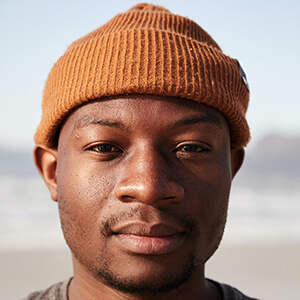
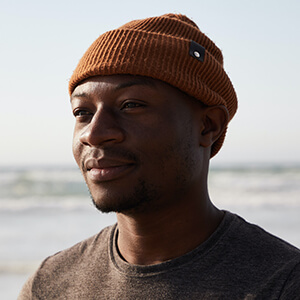
Changed image of instructor philip and updated media credits

diff --git a/README.md b/README.md
@@ -28,7 +28,7 @@ For the structure of the page is designed with a linear narrative to make the si
 The navigation bar is placed at the top of the browser window and is sticky so that it is easy to go where you want on the website.
 On the landingpage of the site more genreal information and an offer is representet and then you can move on to more detaild information on the other sides of the webpage. 
 ### 4 Skeleton
-Wireframes where developed for the website to ensure that the content is presentent is in line with the strategy and gole of the website and to make sure that the arragement amongst the emelments work. 
+Wireframes where developed for the website to ensure that the content is presentent is in line with the strategy and goal of the website and to make sure that the arragement amongst the emelments work. 
 Visual methaphors in the form of icons is used in some places to make the content easier to interpret for the user. 
 For the structure the more general information and perks of the gym is represented because this content is proritised to get users interested. When you continue on the navbar 
 to the right more detail information is presented for those who are interested and furtherst to the right in the navbar the contact page is placed. 
